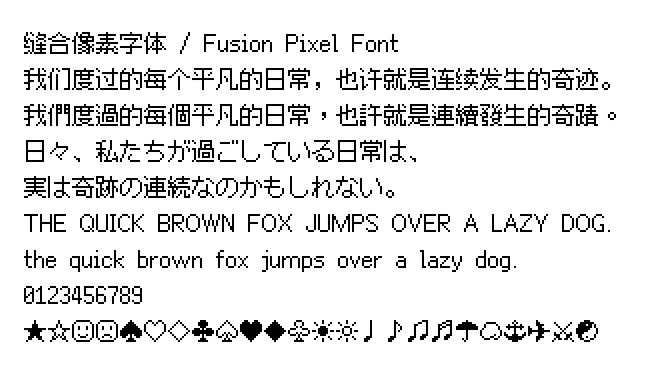
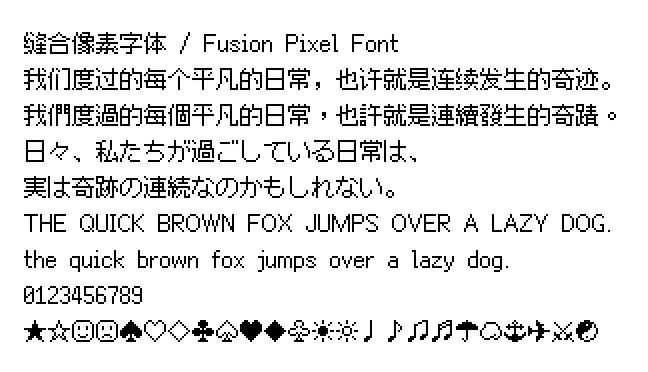
版本结算 2023.11.26

Changed region(s): [[0.2469, 0.6801, 0.8025, 0.7392], [0.216, 0.4731, 0.2469, 0.5323], [0.679, 0.2957, 0.7099, 0.3253]]

diff --git a/docs/font-info-12px-monospaced.md b/docs/font-info-12px-monospaced.md
@@ -4,12 +4,12 @@
 
 | 属性 | 值 |
 |---|---|
-| 版本号 | 2023.08.24 |
-| 字符总数 | 29928 |
+| 版本号 | 2023.11.26 |
+| 字符总数 | 29990 |
 
 ## Unicode 字符分布
 
-Unicode 版本：15.0.0
+Unicode 版本：15.1.0
 
 | 区块范围 | 区块名称 | 区块含义 | 完成数 | 缺失数 | 进度 |
 |---|---|---|---:|---:|---:|
@@ -19,7 +19,7 @@ Unicode 版本：15.0.0
 | 0180 ~ 024F | Latin Extended-B | 拉丁扩充-B | 32 / 208 | 176 | 15.38% 🚧 |
 | 0370 ~ 03FF | Greek and Coptic | 希腊与科普特 | 71 / 135 | 64 | 52.59% 🚧 |
 | 0400 ~ 04FF | Cyrillic | 西里尔 | 78 / 256 | 178 | 30.47% 🚧 |
-| 2000 ~ 206F | General Punctuation | 通用标点 | 26 / 71 | 45 | 36.62% 🚧 |
+| 2000 ~ 206F | General Punctuation | 通用标点 | 33 / 71 | 38 | 46.48% 🚧 |
 | 2070 ~ 209F | Superscripts and Subscripts | 上标与下标 | 42 / 42 | 0 | 100.00% 🚩 |
 | 2150 ~ 218F | Number Forms | 数字形式 | 49 / 60 | 11 | 81.67% 🚧 |
 | 2190 ~ 21FF | Arrows | 箭头 | 47 / 112 | 65 | 41.96% 🚧 |
@@ -37,7 +37,7 @@ Unicode 版本：15.0.0
 | 3130 ~ 318F | Hangul Compatibility Jamo | 谚文兼容字母 | 94 / 94 | 0 | 100.00% 🚩 |
 | 3200 ~ 32FF | Enclosed CJK Letters and Months | 包围中日韩字母与月份 | 92 / 255 | 163 | 36.08% 🚧 |
 | 3300 ~ 33FF | CJK Compatibility | 中日韩兼容 | 60 / 256 | 196 | 23.44% 🚧 |
-| 4E00 ~ 9FFF | CJK Unified Ideographs | 中日韩统一表意文字 | 16573 / 20992 | 4419 | 78.95% 🚧 |
+| 4E00 ~ 9FFF | CJK Unified Ideographs | 中日韩统一表意文字 | 16628 / 20992 | 4364 | 79.21% 🚧 |
 | AC00 ~ D7AF | Hangul Syllables | 谚文音节 | 11172 / 11172 | 0 | 100.00% 🚩 |
 | E000 ~ F8FF | Private Use Area | 私用区域 | 211 / 0 | 0 | 100.00% 🚩 |
 | FE10 ~ FE1F | Vertical Forms | 竖排形式 | 10 / 10 | 0 | 100.00% 🚩 |
@@ -52,9 +52,9 @@ Unicode 版本：15.0.0
 | 区块名称 | 完成数 | 缺失数 | 进度 |
 |---|---:|---:|---:|
 | 一级汉字 | 3755 / 3755 | 0 | 100.00% 🚩 |
-| 二级汉字 | 2574 / 3008 | 434 | 85.57% 🚧 |
-| 其他字符 | 646 / 682 | 36 | 94.72% 🚧 |
-| 总计 | 6975 / 7445 | 470 | 93.69% 🚧 |
+| 二级汉字 | 2588 / 3008 | 420 | 86.04% 🚧 |
+| 其他字符 | 649 / 682 | 33 | 95.16% 🚧 |
+| 总计 | 6992 / 7445 | 453 | 93.92% 🚧 |
 
 ## Big5 字符分布
 
@@ -63,9 +63,9 @@ Unicode 版本：15.0.0
 | 区块名称 | 完成数 | 缺失数 | 进度 |
 |---|---:|---:|---:|
 | 常用汉字 | 5401 / 5401 | 0 | 100.00% 🚩 |
-| 次常用汉字 | 5275 / 7652 | 2377 | 68.94% 🚧 |
-| 其他字符 | 340 / 408 | 68 | 83.33% 🚧 |
-| 总计 | 11016 / 13461 | 2445 | 81.84% 🚧 |
+| 次常用汉字 | 5295 / 7652 | 2357 | 69.20% 🚧 |
+| 其他字符 | 342 / 408 | 66 | 83.82% 🚧 |
+| 总计 | 11038 / 13461 | 2423 | 82.00% 🚧 |
 
 ## Shift-JIS 字符分布
 
@@ -75,9 +75,9 @@ Unicode 版本：15.0.0
 |---|---:|---:|---:|
 | 单字节-ASCII可打印字符 | 95 / 95 | 0 | 100.00% 🚩 |
 | 单字节-半角片假名 | 63 / 63 | 0 | 100.00% 🚩 |
-| 双字节-其他字符 | 487 / 524 | 37 | 92.94% 🚧 |
+| 双字节-其他字符 | 490 / 524 | 34 | 93.51% 🚧 |
 | 双字节-汉字 | 6355 / 6355 | 0 | 100.00% 🚩 |
-| 总计 | 7000 / 7037 | 37 | 99.47% 🚧 |
+| 总计 | 7003 / 7037 | 34 | 99.52% 🚧 |
 
 ## KS-X-1001 字符分布
 
@@ -86,6 +86,6 @@ Unicode 版本：15.0.0
 | 区块名称 | 完成数 | 缺失数 | 进度 |
 |---|---:|---:|---:|
 | 谚文音节 | 2350 / 2350 | 0 | 100.00% 🚩 |
-| 汉字 | 4530 / 4888 | 358 | 92.68% 🚧 |
-| 其他字符 | 777 / 988 | 211 | 78.64% 🚧 |
-| 总计 | 7657 / 8226 | 569 | 93.08% 🚧 |
+| 汉字 | 4531 / 4888 | 357 | 92.70% 🚧 |
+| 其他字符 | 780 / 988 | 208 | 78.95% 🚧 |
+| 总计 | 7661 / 8226 | 565 | 93.13% 🚧 |

diff --git a/docs/font-info-12px-proportional.md b/docs/font-info-12px-proportional.md
@@ -4,12 +4,12 @@
 
 | 属性 | 值 |
 |---|---|
-| 版本号 | 2023.08.24 |
-| 字符总数 | 29928 |
+| 版本号 | 2023.11.26 |
+| 字符总数 | 29990 |
 
 ## Unicode 字符分布
 
-Unicode 版本：15.0.0
+Unicode 版本：15.1.0
 
 | 区块范围 | 区块名称 | 区块含义 | 完成数 | 缺失数 | 进度 |
 |---|---|---|---:|---:|---:|
@@ -19,7 +19,7 @@ Unicode 版本：15.0.0
 | 0180 ~ 024F | Latin Extended-B | 拉丁扩充-B | 32 / 208 | 176 | 15.38% 🚧 |
 | 0370 ~ 03FF | Greek and Coptic | 希腊与科普特 | 71 / 135 | 64 | 52.59% 🚧 |
 | 0400 ~ 04FF | Cyrillic | 西里尔 | 78 / 256 | 178 | 30.47% 🚧 |
-| 2000 ~ 206F | General Punctuation | 通用标点 | 26 / 71 | 45 | 36.62% 🚧 |
+| 2000 ~ 206F | General Punctuation | 通用标点 | 33 / 71 | 38 | 46.48% 🚧 |
 | 2070 ~ 209F | Superscripts and Subscripts | 上标与下标 | 42 / 42 | 0 | 100.00% 🚩 |
 | 2150 ~ 218F | Number Forms | 数字形式 | 49 / 60 | 11 | 81.67% 🚧 |
 | 2190 ~ 21FF | Arrows | 箭头 | 47 / 112 | 65 | 41.96% 🚧 |
@@ -37,7 +37,7 @@ Unicode 版本：15.0.0
 | 3130 ~ 318F | Hangul Compatibility Jamo | 谚文兼容字母 | 94 / 94 | 0 | 100.00% 🚩 |
 | 3200 ~ 32FF | Enclosed CJK Letters and Months | 包围中日韩字母与月份 | 92 / 255 | 163 | 36.08% 🚧 |
 | 3300 ~ 33FF | CJK Compatibility | 中日韩兼容 | 60 / 256 | 196 | 23.44% 🚧 |
-| 4E00 ~ 9FFF | CJK Unified Ideographs | 中日韩统一表意文字 | 16573 / 20992 | 4419 | 78.95% 🚧 |
+| 4E00 ~ 9FFF | CJK Unified Ideographs | 中日韩统一表意文字 | 16628 / 20992 | 4364 | 79.21% 🚧 |
 | AC00 ~ D7AF | Hangul Syllables | 谚文音节 | 11172 / 11172 | 0 | 100.00% 🚩 |
 | E000 ~ F8FF | Private Use Area | 私用区域 | 211 / 0 | 0 | 100.00% 🚩 |
 | FE10 ~ FE1F | Vertical Forms | 竖排形式 | 10 / 10 | 0 | 100.00% 🚩 |
@@ -52,9 +52,9 @@ Unicode 版本：15.0.0
 | 区块名称 | 完成数 | 缺失数 | 进度 |
 |---|---:|---:|---:|
 | 一级汉字 | 3755 / 3755 | 0 | 100.00% 🚩 |
-| 二级汉字 | 2574 / 3008 | 434 | 85.57% 🚧 |
-| 其他字符 | 646 / 682 | 36 | 94.72% 🚧 |
-| 总计 | 6975 / 7445 | 470 | 93.69% 🚧 |
+| 二级汉字 | 2588 / 3008 | 420 | 86.04% 🚧 |
+| 其他字符 | 649 / 682 | 33 | 95.16% 🚧 |
+| 总计 | 6992 / 7445 | 453 | 93.92% 🚧 |
 
 ## Big5 字符分布
 
@@ -63,9 +63,9 @@ Unicode 版本：15.0.0
 | 区块名称 | 完成数 | 缺失数 | 进度 |
 |---|---:|---:|---:|
 | 常用汉字 | 5401 / 5401 | 0 | 100.00% 🚩 |
-| 次常用汉字 | 5275 / 7652 | 2377 | 68.94% 🚧 |
-| 其他字符 | 340 / 408 | 68 | 83.33% 🚧 |
-| 总计 | 11016 / 13461 | 2445 | 81.84% 🚧 |
+| 次常用汉字 | 5295 / 7652 | 2357 | 69.20% 🚧 |
+| 其他字符 | 342 / 408 | 66 | 83.82% 🚧 |
+| 总计 | 11038 / 13461 | 2423 | 82.00% 🚧 |
 
 ## Shift-JIS 字符分布
 
@@ -75,9 +75,9 @@ Unicode 版本：15.0.0
 |---|---:|---:|---:|
 | 单字节-ASCII可打印字符 | 95 / 95 | 0 | 100.00% 🚩 |
 | 单字节-半角片假名 | 63 / 63 | 0 | 100.00% 🚩 |
-| 双字节-其他字符 | 487 / 524 | 37 | 92.94% 🚧 |
+| 双字节-其他字符 | 490 / 524 | 34 | 93.51% 🚧 |
 | 双字节-汉字 | 6355 / 6355 | 0 | 100.00% 🚩 |
-| 总计 | 7000 / 7037 | 37 | 99.47% 🚧 |
+| 总计 | 7003 / 7037 | 34 | 99.52% 🚧 |
 
 ## KS-X-1001 字符分布
 
@@ -86,6 +86,6 @@ Unicode 版本：15.0.0
 | 区块名称 | 完成数 | 缺失数 | 进度 |
 |---|---:|---:|---:|
 | 谚文音节 | 2350 / 2350 | 0 | 100.00% 🚩 |
-| 汉字 | 4530 / 4888 | 358 | 92.68% 🚧 |
-| 其他字符 | 777 / 988 | 211 | 78.64% 🚧 |
-| 总计 | 7657 / 8226 | 569 | 93.08% 🚧 |
+| 汉字 | 4531 / 4888 | 357 | 92.70% 🚧 |
+| 其他字符 | 780 / 988 | 208 | 78.95% 🚧 |
+| 总计 | 7661 / 8226 | 565 | 93.13% 🚧 |

diff --git a/docs/font-info-10px-monospaced.md b/docs/font-info-10px-monospaced.md
@@ -4,12 +4,12 @@
 
 | 属性 | 值 |
 |---|---|
-| 版本号 | 2023.08.24 |
-| 字符总数 | 23214 |
+| 版本号 | 2023.11.26 |
+| 字符总数 | 23282 |
 
 ## Unicode 字符分布
 
-Unicode 版本：15.0.0
+Unicode 版本：15.1.0
 
 | 区块范围 | 区块名称 | 区块含义 | 完成数 | 缺失数 | 进度 |
 |---|---|---|---:|---:|---:|
@@ -17,7 +17,7 @@ Unicode 版本：15.0.0
 | 0080 ~ 00FF | Latin-1 Supplement | 拉丁-1 增补 | 94 / 94 | 0 | 100.00% 🚩 |
 | 0100 ~ 017F | Latin Extended-A | 拉丁扩充-A | 61 / 128 | 67 | 47.66% 🚧 |
 | 0180 ~ 024F | Latin Extended-B | 拉丁扩充-B | 32 / 208 | 176 | 15.38% 🚧 |
-| 2000 ~ 206F | General Punctuation | 通用标点 | 26 / 71 | 45 | 36.62% 🚧 |
+| 2000 ~ 206F | General Punctuation | 通用标点 | 33 / 71 | 38 | 46.48% 🚧 |
 | 2070 ~ 209F | Superscripts and Subscripts | 上标与下标 | 42 / 42 | 0 | 100.00% 🚩 |
 | 2150 ~ 218F | Number Forms | 数字形式 | 49 / 60 | 11 | 81.67% 🚧 |
 | 2190 ~ 21FF | Arrows | 箭头 | 47 / 112 | 65 | 41.96% 🚧 |
@@ -35,7 +35,7 @@ Unicode 版本：15.0.0
 | 3130 ~ 318F | Hangul Compatibility Jamo | 谚文兼容字母 | 94 / 94 | 0 | 100.00% 🚩 |
 | 3200 ~ 32FF | Enclosed CJK Letters and Months | 包围中日韩字母与月份 | 40 / 255 | 215 | 15.69% 🚧 |
 | 3300 ~ 33FF | CJK Compatibility | 中日韩兼容 | 60 / 256 | 196 | 23.44% 🚧 |
-| 4E00 ~ 9FFF | CJK Unified Ideographs | 中日韩统一表意文字 | 10063 / 20992 | 10929 | 47.94% 🚧 |
+| 4E00 ~ 9FFF | CJK Unified Ideographs | 中日韩统一表意文字 | 10124 / 20992 | 10868 | 48.23% 🚧 |
 | AC00 ~ D7AF | Hangul Syllables | 谚文音节 | 11172 / 11172 | 0 | 100.00% 🚩 |
 | E000 ~ F8FF | Private Use Area | 私用区域 | 208 / 0 | 0 | 100.00% 🚩 |
 | FE10 ~ FE1F | Vertical Forms | 竖排形式 | 10 / 10 | 0 | 100.00% 🚩 |
@@ -50,9 +50,9 @@ Unicode 版本：15.0.0
 | 区块名称 | 完成数 | 缺失数 | 进度 |
 |---|---:|---:|---:|
 | 一级汉字 | 3755 / 3755 | 0 | 100.00% 🚩 |
-| 二级汉字 | 1690 / 3008 | 1318 | 56.18% 🚧 |
-| 其他字符 | 532 / 682 | 150 | 78.01% 🚧 |
-| 总计 | 5977 / 7445 | 1468 | 80.28% 🚧 |
+| 二级汉字 | 1724 / 3008 | 1284 | 57.31% 🚧 |
+| 其他字符 | 535 / 682 | 147 | 78.45% 🚧 |
+| 总计 | 6014 / 7445 | 1431 | 80.78% 🚧 |
 
 ## Big5 字符分布
 
@@ -61,9 +61,9 @@ Unicode 版本：15.0.0
 | 区块名称 | 完成数 | 缺失数 | 进度 |
 |---|---:|---:|---:|
 | 常用汉字 | 5401 / 5401 | 0 | 100.00% 🚩 |
-| 次常用汉字 | 2054 / 7652 | 5598 | 26.84% 🚧 |
-| 其他字符 | 292 / 408 | 116 | 71.57% 🚧 |
-| 总计 | 7747 / 13461 | 5714 | 57.55% 🚧 |
+| 次常用汉字 | 2064 / 7652 | 5588 | 26.97% 🚧 |
+| 其他字符 | 294 / 408 | 114 | 72.06% 🚧 |
+| 总计 | 7759 / 13461 | 5702 | 57.64% 🚧 |
 
 ## Shift-JIS 字符分布
 
@@ -73,9 +73,9 @@ Unicode 版本：15.0.0
 |---|---:|---:|---:|
 | 单字节-ASCII可打印字符 | 95 / 95 | 0 | 100.00% 🚩 |
 | 单字节-半角片假名 | 63 / 63 | 0 | 100.00% 🚩 |
-| 双字节-其他字符 | 373 / 524 | 151 | 71.18% 🚧 |
+| 双字节-其他字符 | 376 / 524 | 148 | 71.76% 🚧 |
 | 双字节-汉字 | 6355 / 6355 | 0 | 100.00% 🚩 |
-| 总计 | 6886 / 7037 | 151 | 97.85% 🚧 |
+| 总计 | 6889 / 7037 | 148 | 97.90% 🚧 |
 
 ## KS-X-1001 字符分布
 
@@ -85,5 +85,5 @@ Unicode 版本：15.0.0
 |---|---:|---:|---:|
 | 谚文音节 | 2350 / 2350 | 0 | 100.00% 🚩 |
 | 汉字 | 4399 / 4888 | 489 | 90.00% 🚧 |
-| 其他字符 | 663 / 988 | 325 | 67.11% 🚧 |
-| 总计 | 7412 / 8226 | 814 | 90.10% 🚧 |
+| 其他字符 | 666 / 988 | 322 | 67.41% 🚧 |
+| 总计 | 7415 / 8226 | 811 | 90.14% 🚧 |

diff --git a/docs/font-info-10px-proportional.md b/docs/font-info-10px-proportional.md
@@ -4,12 +4,12 @@
 
 | 属性 | 值 |
 |---|---|
-| 版本号 | 2023.08.24 |
-| 字符总数 | 23363 |
+| 版本号 | 2023.11.26 |
+| 字符总数 | 23431 |
 
 ## Unicode 字符分布
 
-Unicode 版本：15.0.0
+Unicode 版本：15.1.0
 
 | 区块范围 | 区块名称 | 区块含义 | 完成数 | 缺失数 | 进度 |
 |---|---|---|---:|---:|---:|
@@ -19,7 +19,7 @@ Unicode 版本：15.0.0
 | 0180 ~ 024F | Latin Extended-B | 拉丁扩充-B | 32 / 208 | 176 | 15.38% 🚧 |
 | 0370 ~ 03FF | Greek and Coptic | 希腊与科普特 | 71 / 135 | 64 | 52.59% 🚧 |
 | 0400 ~ 04FF | Cyrillic | 西里尔 | 78 / 256 | 178 | 30.47% 🚧 |
-| 2000 ~ 206F | General Punctuation | 通用标点 | 26 / 71 | 45 | 36.62% 🚧 |
+| 2000 ~ 206F | General Punctuation | 通用标点 | 33 / 71 | 38 | 46.48% 🚧 |
 | 2070 ~ 209F | Superscripts and Subscripts | 上标与下标 | 42 / 42 | 0 | 100.00% 🚩 |
 | 2150 ~ 218F | Number Forms | 数字形式 | 49 / 60 | 11 | 81.67% 🚧 |
 | 2190 ~ 21FF | Arrows | 箭头 | 47 / 112 | 65 | 41.96% 🚧 |
@@ -37,7 +37,7 @@ Unicode 版本：15.0.0
 | 3130 ~ 318F | Hangul Compatibility Jamo | 谚文兼容字母 | 94 / 94 | 0 | 100.00% 🚩 |
 | 3200 ~ 32FF | Enclosed CJK Letters and Months | 包围中日韩字母与月份 | 40 / 255 | 215 | 15.69% 🚧 |
 | 3300 ~ 33FF | CJK Compatibility | 中日韩兼容 | 60 / 256 | 196 | 23.44% 🚧 |
-| 4E00 ~ 9FFF | CJK Unified Ideographs | 中日韩统一表意文字 | 10063 / 20992 | 10929 | 47.94% 🚧 |
+| 4E00 ~ 9FFF | CJK Unified Ideographs | 中日韩统一表意文字 | 10124 / 20992 | 10868 | 48.23% 🚧 |
 | AC00 ~ D7AF | Hangul Syllables | 谚文音节 | 11172 / 11172 | 0 | 100.00% 🚩 |
 | E000 ~ F8FF | Private Use Area | 私用区域 | 208 / 0 | 0 | 100.00% 🚩 |
 | FE10 ~ FE1F | Vertical Forms | 竖排形式 | 10 / 10 | 0 | 100.00% 🚩 |
@@ -52,9 +52,9 @@ Unicode 版本：15.0.0
 | 区块名称 | 完成数 | 缺失数 | 进度 |
 |---|---:|---:|---:|
 | 一级汉字 | 3755 / 3755 | 0 | 100.00% 🚩 |
-| 二级汉字 | 1690 / 3008 | 1318 | 56.18% 🚧 |
-| 其他字符 | 646 / 682 | 36 | 94.72% 🚧 |
-| 总计 | 6091 / 7445 | 1354 | 81.81% 🚧 |
+| 二级汉字 | 1724 / 3008 | 1284 | 57.31% 🚧 |
+| 其他字符 | 649 / 682 | 33 | 95.16% 🚧 |
+| 总计 | 6128 / 7445 | 1317 | 82.31% 🚧 |
 
 ## Big5 字符分布
 
@@ -63,9 +63,9 @@ Unicode 版本：15.0.0
 | 区块名称 | 完成数 | 缺失数 | 进度 |
 |---|---:|---:|---:|
 | 常用汉字 | 5401 / 5401 | 0 | 100.00% 🚩 |
-| 次常用汉字 | 2054 / 7652 | 5598 | 26.84% 🚧 |
-| 其他字符 | 340 / 408 | 68 | 83.33% 🚧 |
-| 总计 | 7795 / 13461 | 5666 | 57.91% 🚧 |
+| 次常用汉字 | 2064 / 7652 | 5588 | 26.97% 🚧 |
+| 其他字符 | 342 / 408 | 66 | 83.82% 🚧 |
+| 总计 | 7807 / 13461 | 5654 | 58.00% 🚧 |
 
 ## Shift-JIS 字符分布
 
@@ -75,9 +75,9 @@ Unicode 版本：15.0.0
 |---|---:|---:|---:|
 | 单字节-ASCII可打印字符 | 95 / 95 | 0 | 100.00% 🚩 |
 | 单字节-半角片假名 | 63 / 63 | 0 | 100.00% 🚩 |
-| 双字节-其他字符 | 487 / 524 | 37 | 92.94% 🚧 |
+| 双字节-其他字符 | 490 / 524 | 34 | 93.51% 🚧 |
 | 双字节-汉字 | 6355 / 6355 | 0 | 100.00% 🚩 |
-| 总计 | 7000 / 7037 | 37 | 99.47% 🚧 |
+| 总计 | 7003 / 7037 | 34 | 99.52% 🚧 |
 
 ## KS-X-1001 字符分布
 
@@ -87,5 +87,5 @@ Unicode 版本：15.0.0
 |---|---:|---:|---:|
 | 谚文音节 | 2350 / 2350 | 0 | 100.00% 🚩 |
 | 汉字 | 4399 / 4888 | 489 | 90.00% 🚧 |
-| 其他字符 | 777 / 988 | 211 | 78.64% 🚧 |
-| 总计 | 7526 / 8226 | 700 | 91.49% 🚧 |
+| 其他字符 | 780 / 988 | 208 | 78.95% 🚧 |
+| 总计 | 7529 / 8226 | 697 | 91.53% 🚧 |

diff --git a/docs/font-info-8px-monospaced.md b/docs/font-info-8px-monospaced.md
@@ -4,12 +4,12 @@
 
 | 属性 | 值 |
 |---|---|
-| 版本号 | 2023.08.24 |
+| 版本号 | 2023.11.26 |
 | 字符总数 | 20339 |
 
 ## Unicode 字符分布
 
-Unicode 版本：15.0.0
+Unicode 版本：15.1.0
 
 | 区块范围 | 区块名称 | 区块含义 | 完成数 | 缺失数 | 进度 |
 |---|---|---|---:|---:|---:|

diff --git a/docs/font-info-8px-proportional.md b/docs/font-info-8px-proportional.md
@@ -4,12 +4,12 @@
 
 | 属性 | 值 |
 |---|---|
-| 版本号 | 2023.08.24 |
+| 版本号 | 2023.11.26 |
 | 字符总数 | 20339 |
 
 ## Unicode 字符分布
 
-Unicode 版本：15.0.0
+Unicode 版本：15.1.0
 
 | 区块范围 | 区块名称 | 区块含义 | 完成数 | 缺失数 | 进度 |
 |---|---|---|---:|---:|---:|
